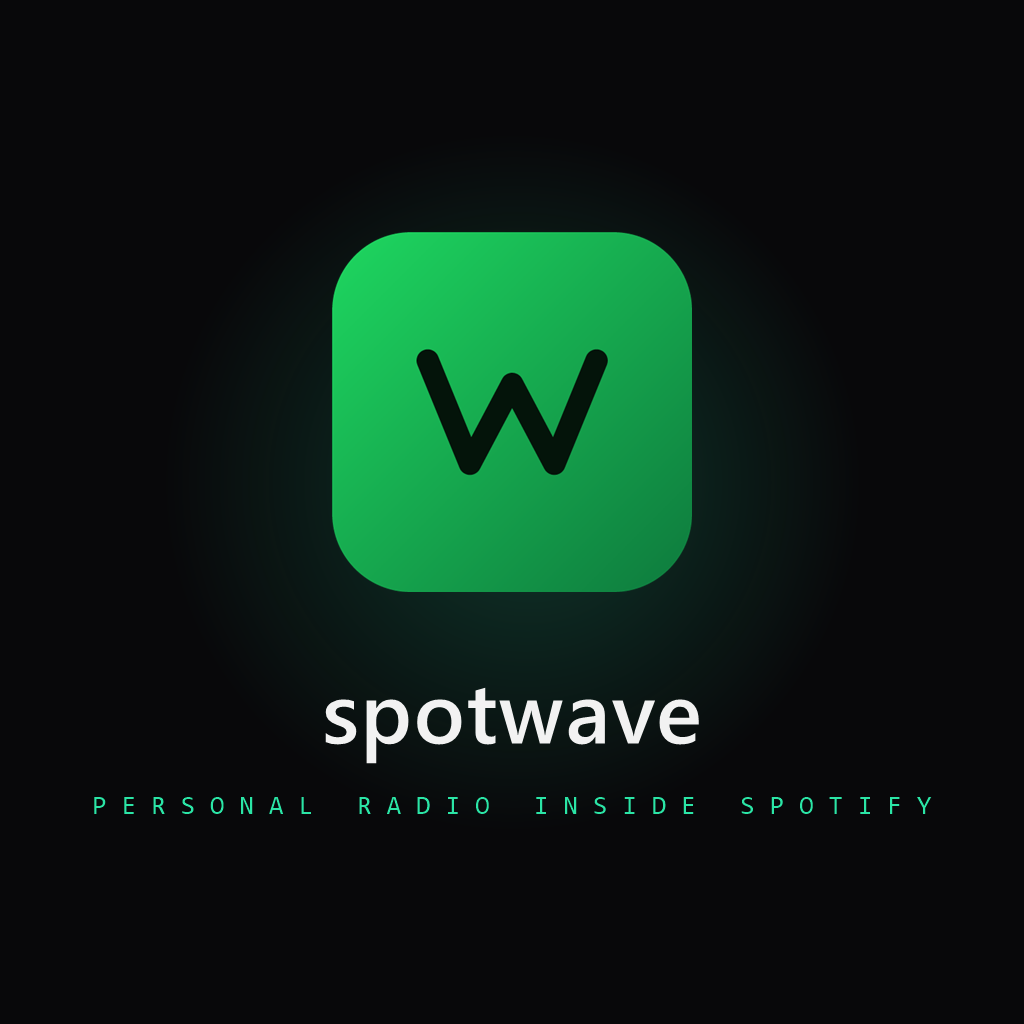
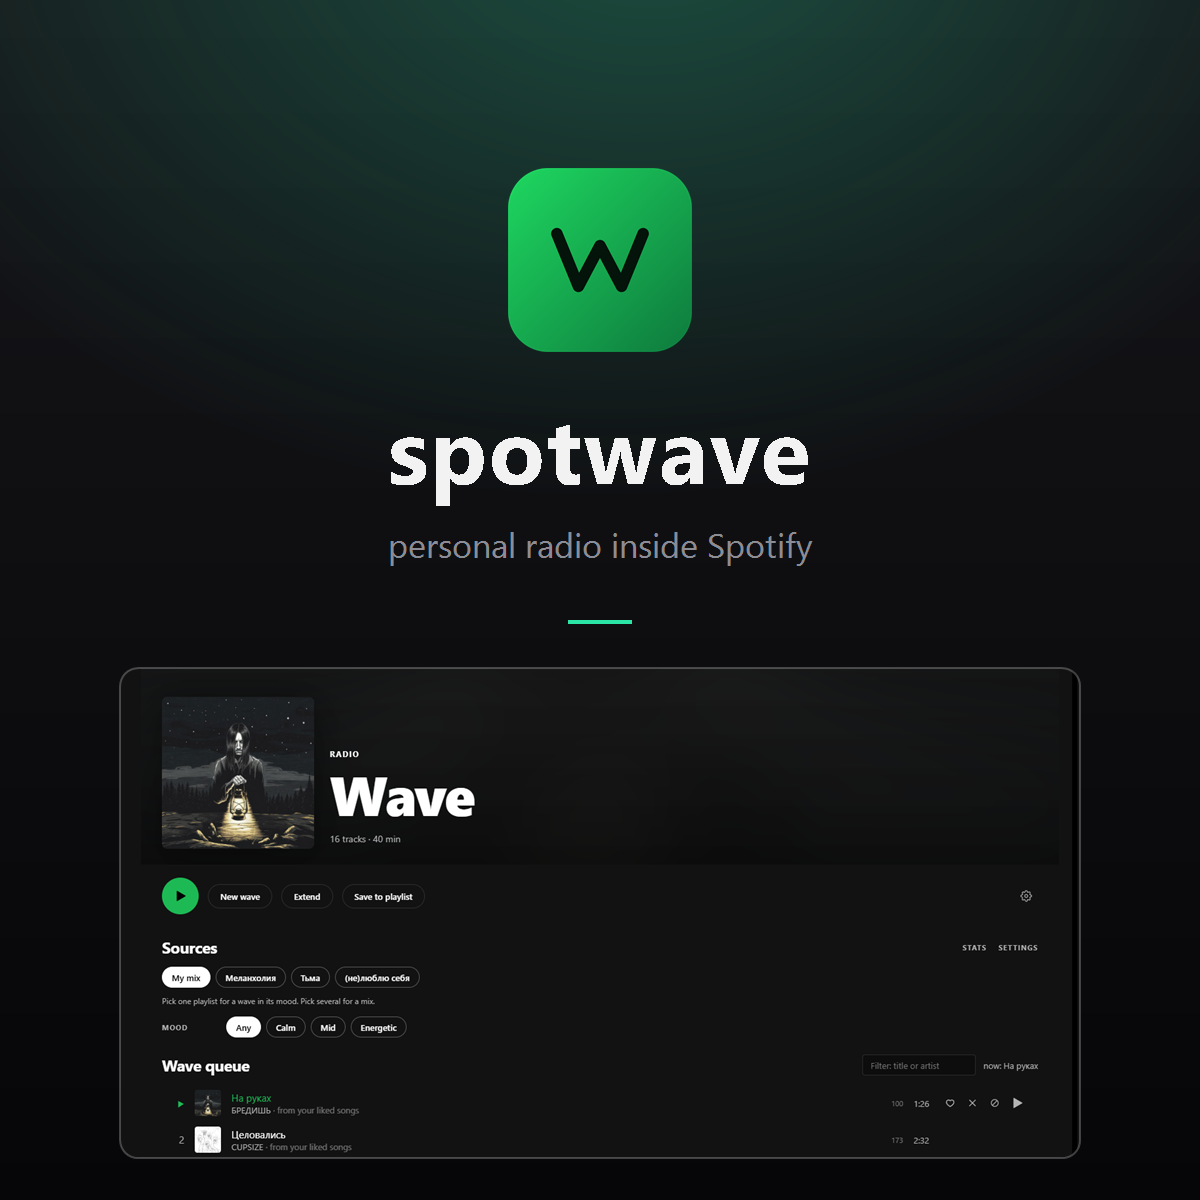
docs: fresh UI screenshot + marketplace preview; v0.5.1

diff --git a/docs/STATE.md b/docs/STATE.md
@@ -5,7 +5,7 @@ Updated: 2026-11-19
 ## Repo
 
 - **https://github.com/WhyTunesWorkspace/spotwave** (public, MIT)
-- Latest release: **v0.5.0** (auto-published by `.github/workflows/release.yml` on `v*` tags)
+- Latest release: **v0.5.1** (auto-published by `.github/workflows/release.yml` on `v*` tags)
 - Local working copy: `C:\Users\Administrator\wave`
 - Backups: `C:\Users\Administrator\wave-backup-2026-11-19.zip` (state + git bundle + config)
 
@@ -50,9 +50,10 @@ from the root Marketplace manifest.
 
 Next steps:
 
-1. Fresh screenshots (the current `docs/screenshot.png` shows the old heart cover, no sidebar).
+1. ~~Fresh screenshots~~ done in v0.5.1: `docs/screenshot.png` (English UI, My mix wave) and
+   `docs/marketplace-preview.png` (1200², ink + icon + wordmark + UI card).
 2. Publish `docs/launch-ru.md` (Habr) and `docs/launch-en.md` (Show HN).
-3. Pinned feedback issue.
+3. ~~Pinned feedback issue~~ created after the 0.5.1 release.
 4. Optional: scheduled morning wave, community mood presets.
 
 ## Commands

diff --git a/CHANGELOG.md b/CHANGELOG.md
@@ -3,6 +3,21 @@
 All notable changes to spotwave are documented here.
 Format: [Keep a Changelog](https://keepachangelog.com/en/1.1.0/), versioning: SemVer.
 
+## [0.5.1] — 2026-11-20
+
+### Added
+
+- **Spicetify Marketplace listing**: root `manifest.json` (no `main`/`usercss`), square
+  preview, repo topic `spicetify-apps`, install notes in both READMEs.
+- Fresh UI screenshot and a marketplace preview built from it.
+
+### Fixed
+
+- UI language right after a client restart: the locale is retried instead of caching the
+  fallback, so the app no longer starts in English on a Russian client.
+- Settings and Stats panels are mutually exclusive; settings render as a single list instead
+  of a grid that collapsed on narrow windows.
+
 ## [0.5.0] — 2026-11-19
 
 ### Added

diff --git a/README.md b/README.md
@@ -186,7 +186,7 @@ See [CONTRIBUTING.md](CONTRIBUTING.md).
 - [x] Playlist / track / artist / album waves
 - [x] Skip learning, mood presets, auto-extend
 - [x] Bilingual UI, native redesign, brand identity
-- [ ] Spicetify Marketplace listing
+- [x] Spicetify Marketplace listing
 - [ ] Scheduled waves (morning mix)
 - [ ] Shared presets and community mood packs
 - [ ] Optional local server for generating from a phone
